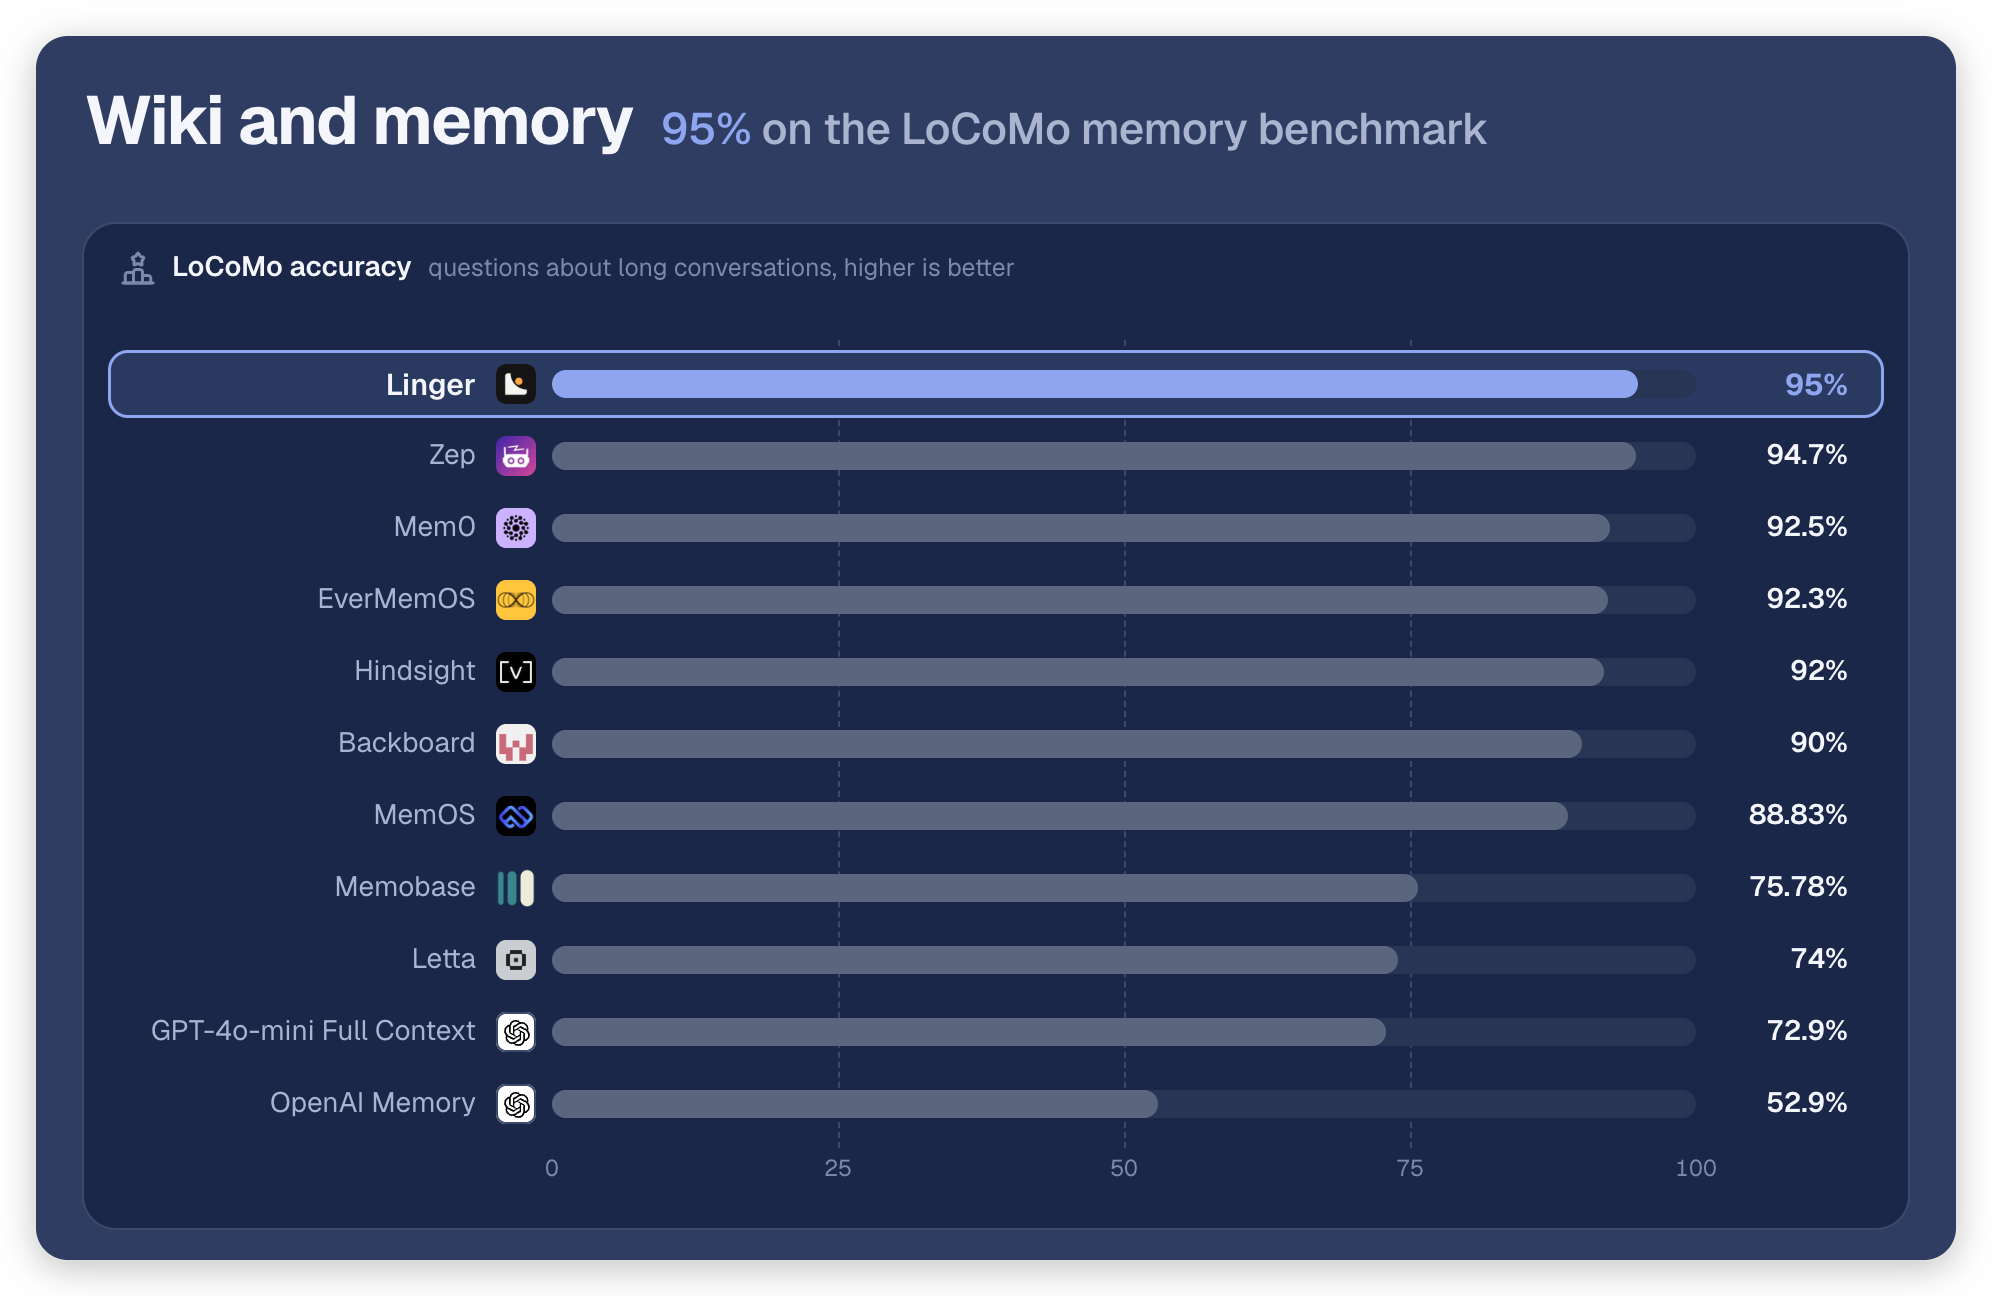
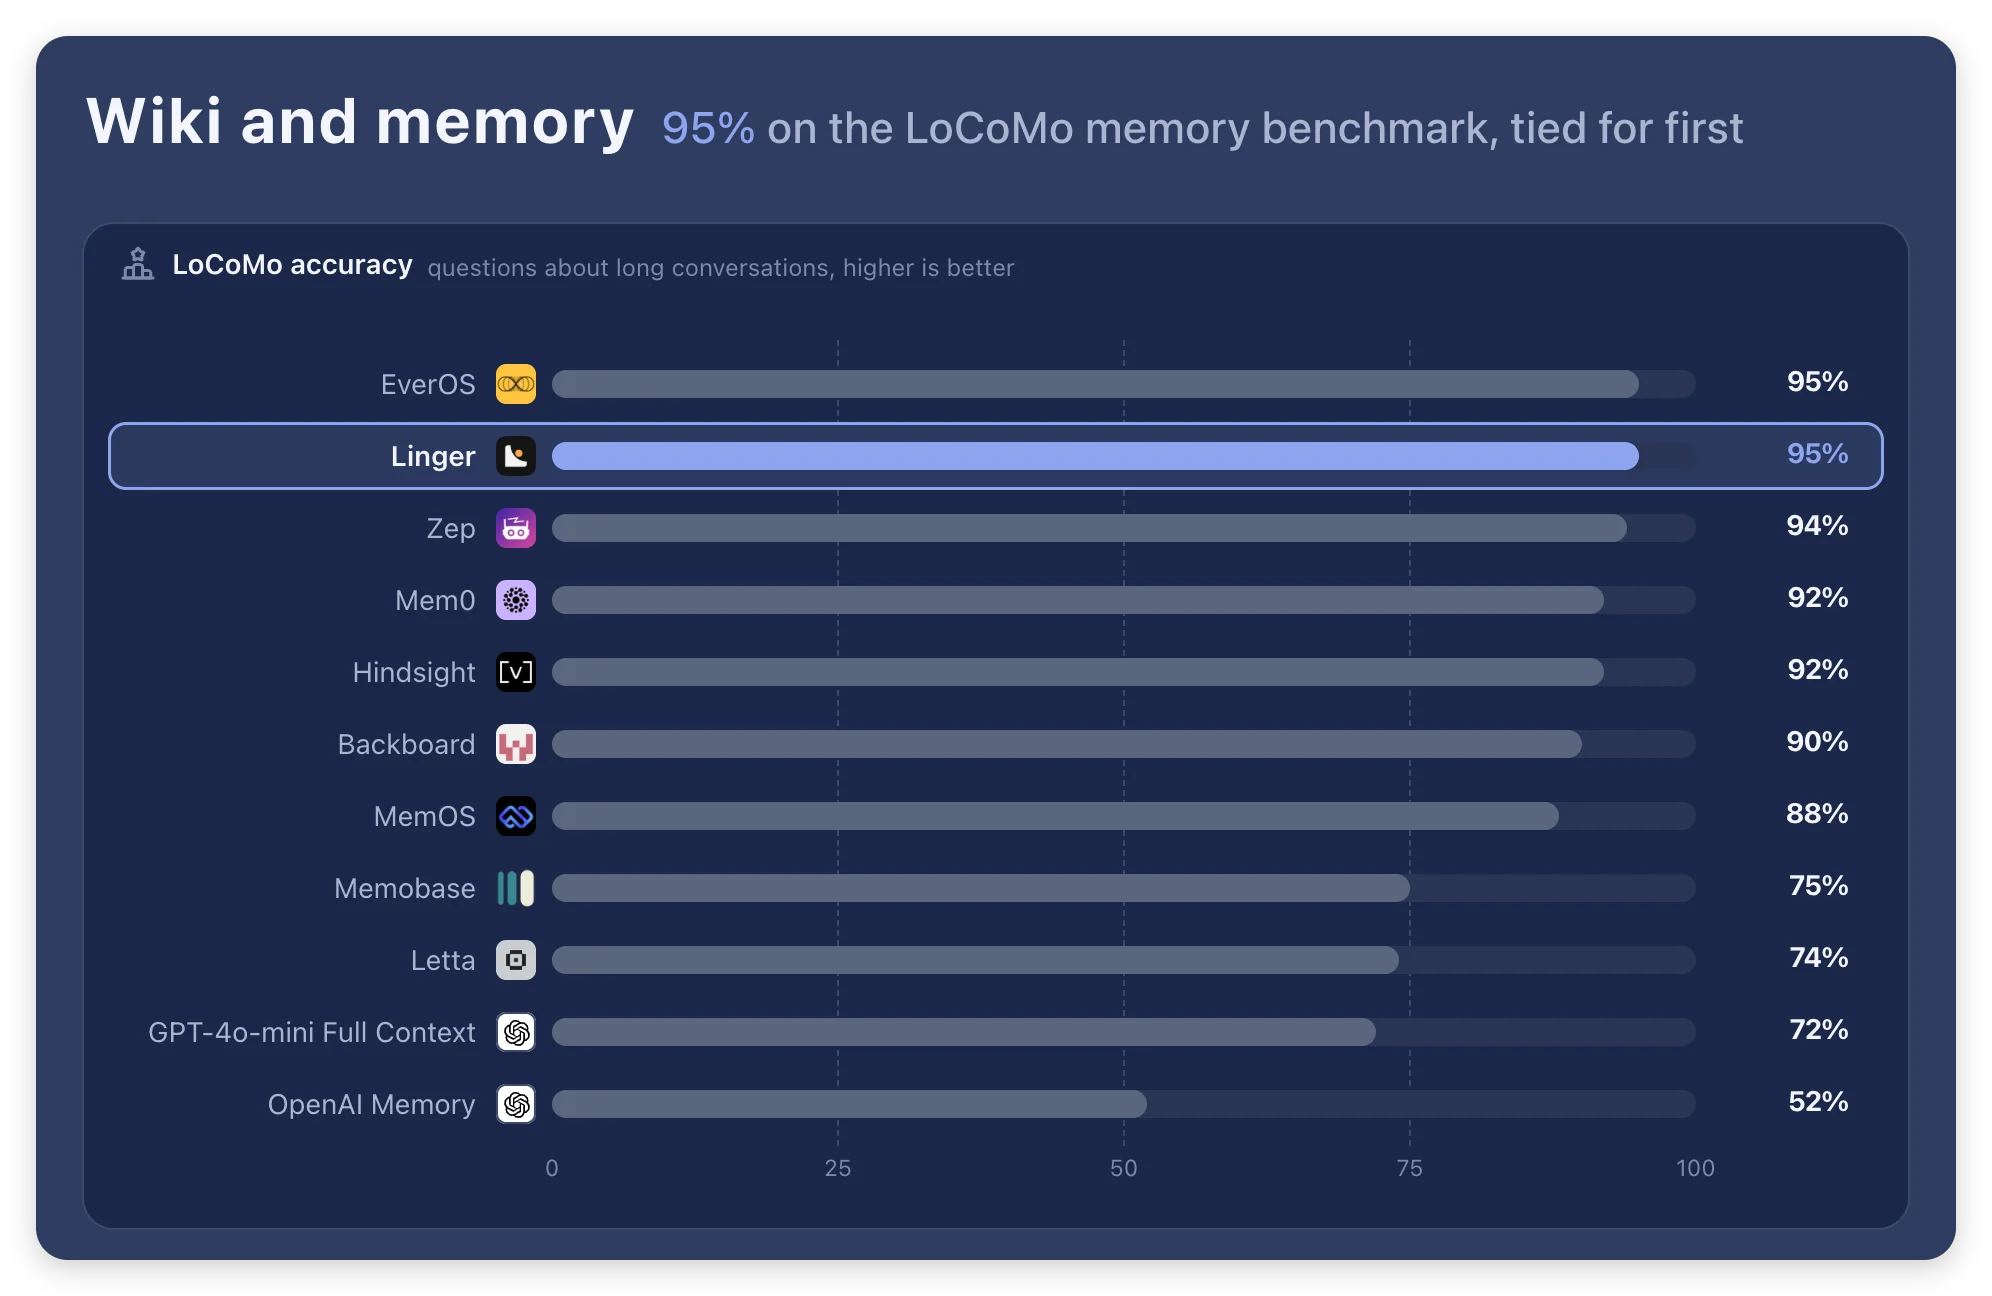
docs(readme): show EverOS tied for first on the LoCoMo chart
The chart showed EverOS (EverMemOS) at 92.3%, an older figure the EverOS
team says is not its published result. Its latest result is 95.78% and its
website lists 94.74%.

The chart now drops decimals instead of rounding, for both bars and labels,
so EverOS and Linger tie at 95%. EverOS sits above Linger, and only Linger
keeps the highlight. A note under the chart gives the EverOS sources and
says the scores were not rerun under one setup.

diff --git a/README.md b/README.md
@@ -93,7 +93,9 @@ One command detects your hardware, recommends the best model, installs it and ch
 
 ### Wiki and memory: It remembers your business
 
-<a href="docs/wiki-and-memory.md"><img src="assets/feature-locomo.webp" width="100%" alt="Wiki and memory: 95% on the LoCoMo memory benchmark. LoCoMo accuracy on questions about long conversations, higher is better: Linger 95%, Zep 94.7%, Mem0 92.5%, EverMemOS 92.3%, Hindsight 92%, Backboard 90%, MemOS 88.83%, Memobase 75.78%, Letta 74%, GPT-4o-mini Full Context 72.9%, OpenAI Memory 52.9%"></a>
+<a href="docs/wiki-and-memory.md"><img src="assets/feature-locomo.webp" width="100%" alt="Wiki and memory: 95% on the LoCoMo memory benchmark, tied for first. LoCoMo accuracy on questions about long conversations, higher is better, decimals dropped: tied for first, EverOS (EverMemOS) 95% and Linger 95%; then Zep 94%, Mem0 92%, Hindsight 92%, Backboard 90%, MemOS 88%, Memobase 75%, Letta 74%, GPT-4o-mini Full Context 72%, OpenAI Memory 52%"></a>
+
+<sub>The chart drops decimals instead of rounding. EverOS (EverMemOS): 95.78% is its latest result as the EverOS team reported it in November 2026; the <a href="https://evermind.ai/everos">EverOS website</a> publishes 94.74%. The other scores come from public reports and were not rerun under one setup, so test configurations differ.</sub>
 
 Tell one agent, and every agent knows. Another Me reads back through your inbox, then each night files your mail, chats and meetings into wiki pages that every agent can search. It keeps the information, preferences and decisions that matter across conversations, on your device instead of in a provider's account.
 
